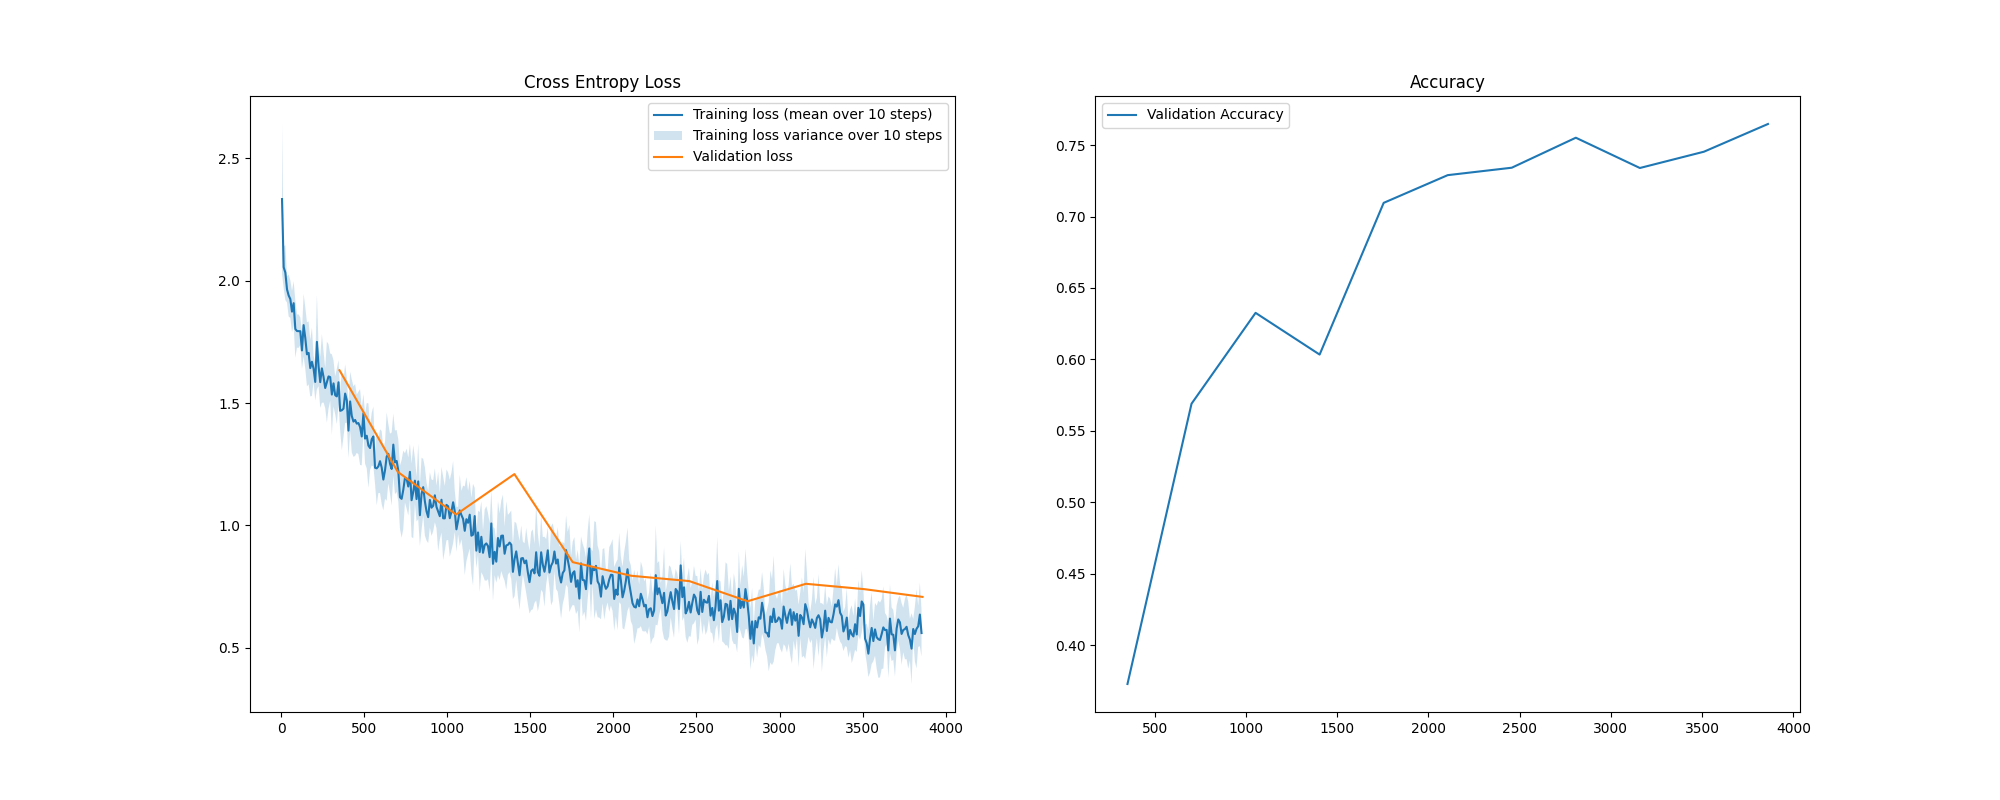
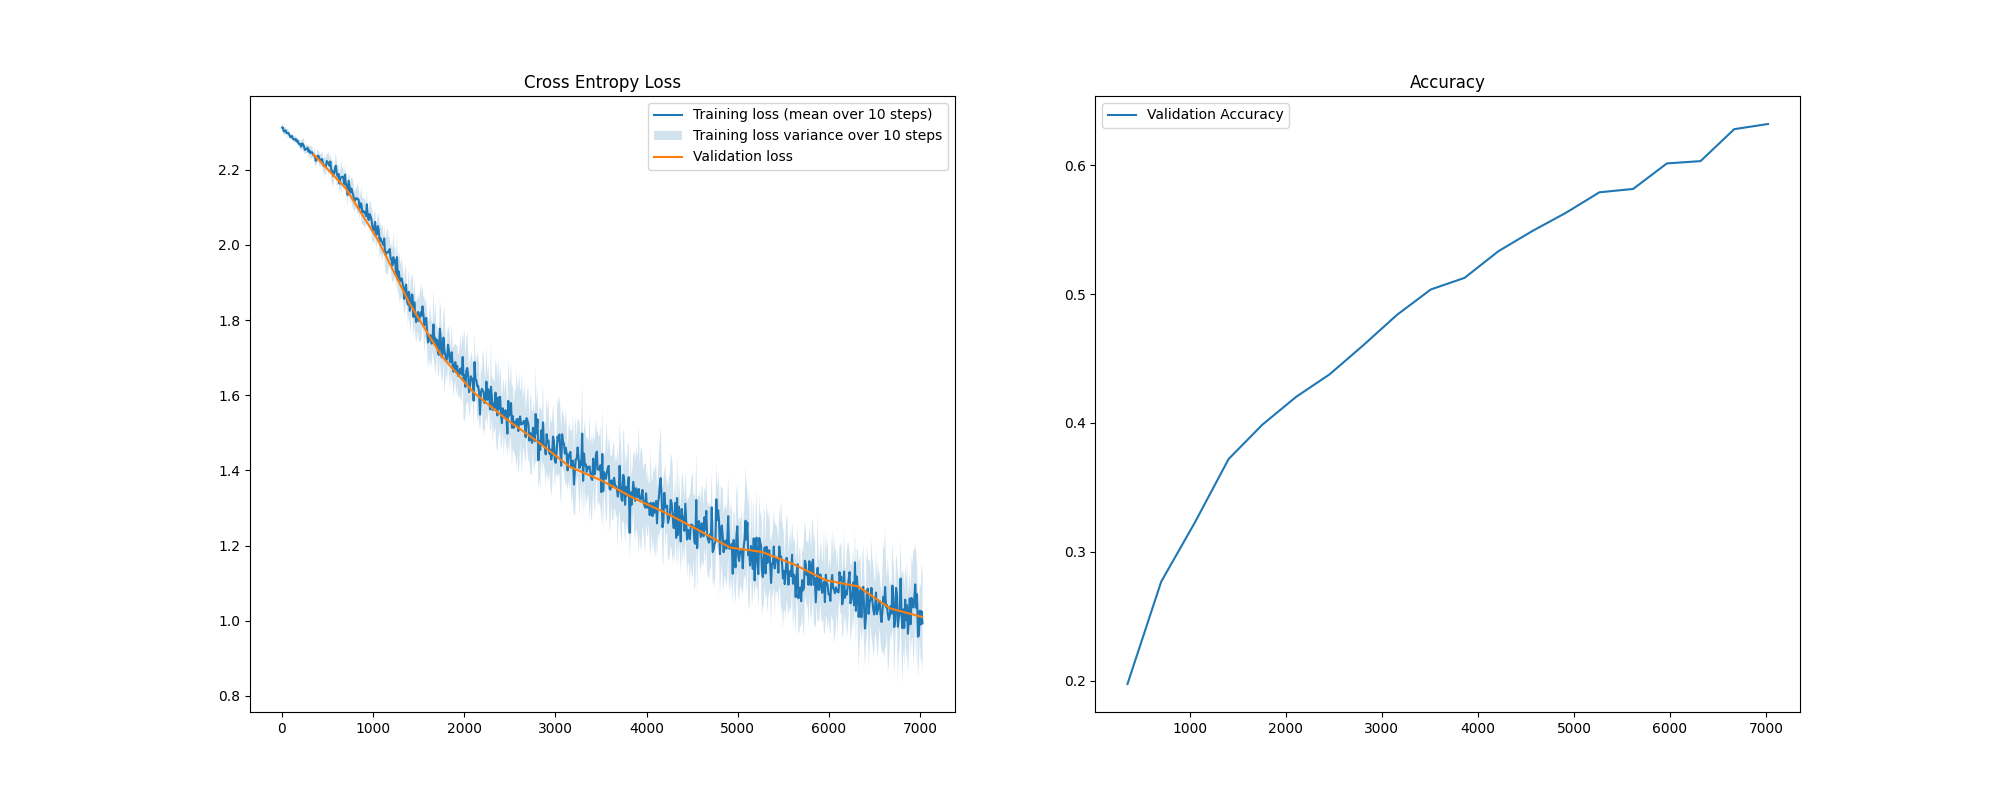
merges

diff --git a/assignment3/dataloaders.py b/assignment3/dataloaders.py
@@ -7,16 +7,17 @@ import numpy as np
 import pathlib
 np.random.seed(0)
 
-import ssl
+# import ssl
+# ssl._create_default_https_context = ssl._create_unverified_context
 
-ssl._create_default_https_context = ssl._create_unverified_context
+mean = (0.5, 0.5, 0.5)
+std = (.25, .25, .25)
+
 
 def get_data_dir():
     server_dir = pathlib.Path("/work/datasets/cifar10")
     if server_dir.is_dir():
-        print(str(server_dir))
         return str(server_dir)
-    print("data/cifar10")
     return "data/cifar10"
 
 
@@ -24,6 +25,8 @@ def load_cifar10(batch_size: int, validation_fraction: float = 0.1
                  ) -> typing.List[torch.utils.data.DataLoader]:
     # Note that transform train will apply the same transform for
     # validation!
+
+    # Used for optimal init in task 4
     normalize = transforms.Normalize(mean=[0.485, 0.456, 0.406],
                                      std=[0.229, 0.224, 0.225])
     
@@ -50,6 +53,14 @@ def load_cifar10(batch_size: int, validation_fraction: float = 0.1
                                  download=True,
                                  transform=transform_test)
 
+    transform_train2 = transforms.Compose([
+        transforms.RandomHorizontalFlip(), # Randomly flips the image horizontally
+        # transforms.RandomCrop(32, padding=4), # Pads the image and randomly crops it back to its original size
+        # transforms.RandomRotation(10),
+        # transforms.ColorJitter(brightness=0.1, contrast=0.1, saturation=0.1, hue=0.1), # Randomly changes hue, saturation, brightness, and contrast
+        transforms.ToTensor(),
+        transforms.Normalize(mean, std),
+    ])
     
     indices = list(range(len(data_train)))
     split_idx = int(np.floor(validation_fraction * len(data_train)))

diff --git a/assignment3/trainer.py b/assignment3/trainer.py
@@ -44,6 +44,7 @@ def compute_loss_and_accuracy(
 
             correct_predictions += (output_probs.argmax(axis=1).squeeze() == Y_batch.squeeze()).sum().item()
             total_images += output_probs.argmax(axis=1).shape[0]
+
             # Accumulate loss
             total_loss += loss_criterion(output_probs, Y_batch)
 
@@ -78,8 +79,8 @@ class Trainer:
         self.model = utils.to_cuda(self.model)
         print(self.model)
 
-        # Define our optimizer. SGD = Stochastich Gradient Descent
-        self.optimizer = torch.optim.SGD(self.model.parameters(),
+        # Define our optimizer. (SGD = Stochastich Gradient Descent), Using Adam, Preferred learning_rate=0.001
+        self.optimizer = torch.optim.Adam(self.model.parameters(),
                                          self.learning_rate, weight_decay=0.0005)
 
         # Load our dataset
